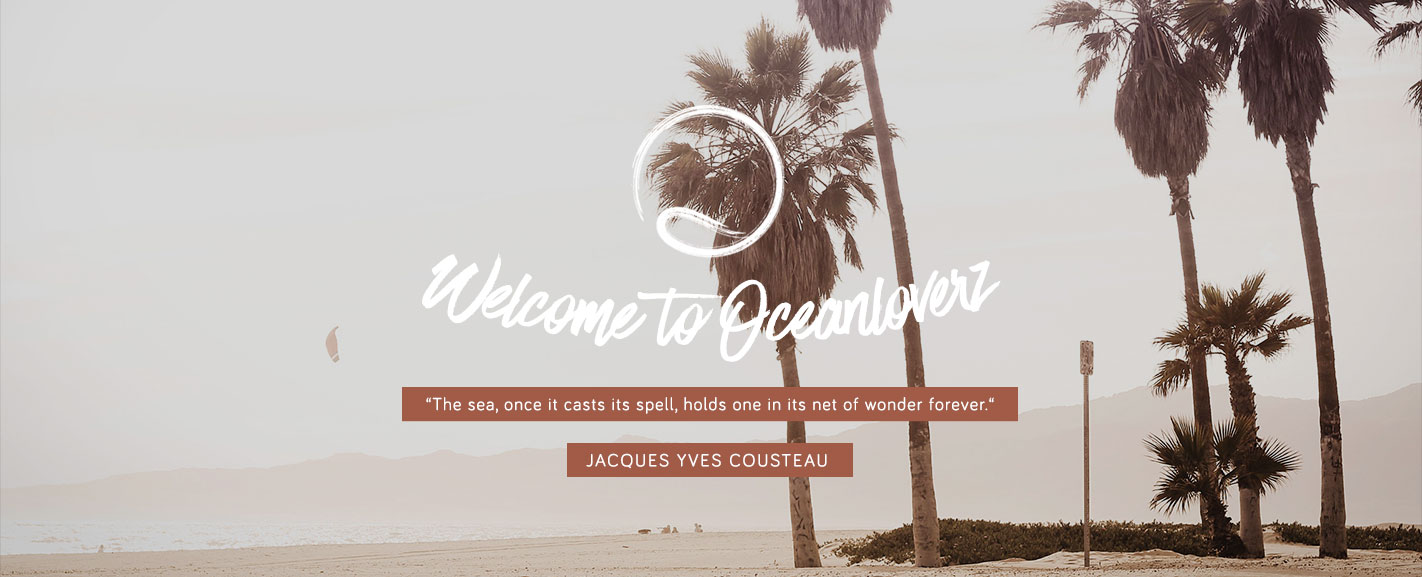
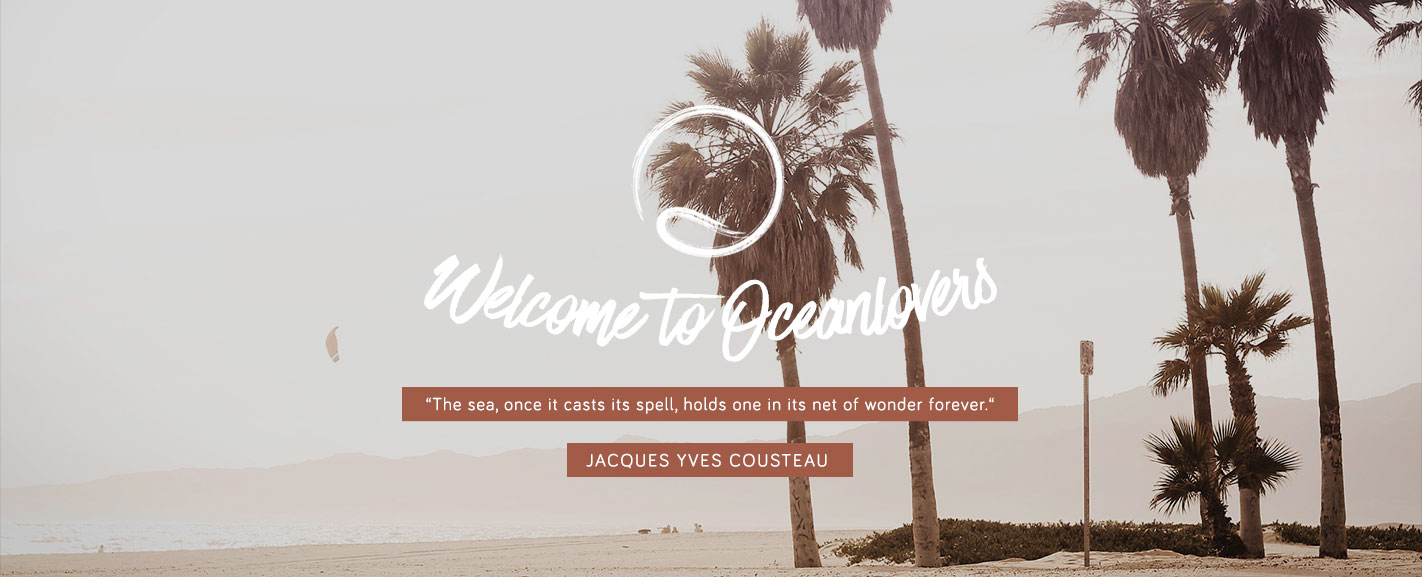
add new slides

Changed region(s): [[0.2785, 0.4367, 0.7117, 0.5927], [0.4951, 0.5927, 0.526, 0.6239]]

diff --git a/wp-content/themes/oceanloverz/home.php b/wp-content/themes/oceanloverz/home.php
@@ -44,8 +44,8 @@
 					<div class="home-subscribe home-box">
 						<div class="home-box-inner">
 							<div class="subscribe-desc-container">
-								<h2>Join your fellow Oceanloverz and receive</h2>
-								<h2>a monthly inspiring Oceanloverz story:</h2>
+								<h2>Join your fellow Oceanlovers and receive</h2>
+								<h2>a monthly inspiring Oceanlovers story:</h2>
 							</div>
 							<!-- Ontaport Subscribe form -->
 							<? require(get_template_directory() . '/include/_ontaport_subscribe.php');?>

diff --git a/wp-content/themes/oceanloverz/header.php b/wp-content/themes/oceanloverz/header.php
@@ -31,7 +31,7 @@
 		<header class="header">
 			<!-- begin header-top  -->
 			<div class="header-top">
-				<a href="#" class="header-top__link">Join your fellow Oceanloverz and receive a monthly inspiring Oceanloverz story! <span class="arr_next"></span></a>
+				<a href="#" class="header-top__link">Join your fellow Oceanlovers and receive a monthly inspiring Oceanlovers story! <span class="arr_next"></span></a>
 			</div>
 			<!-- end header-top -->
 
